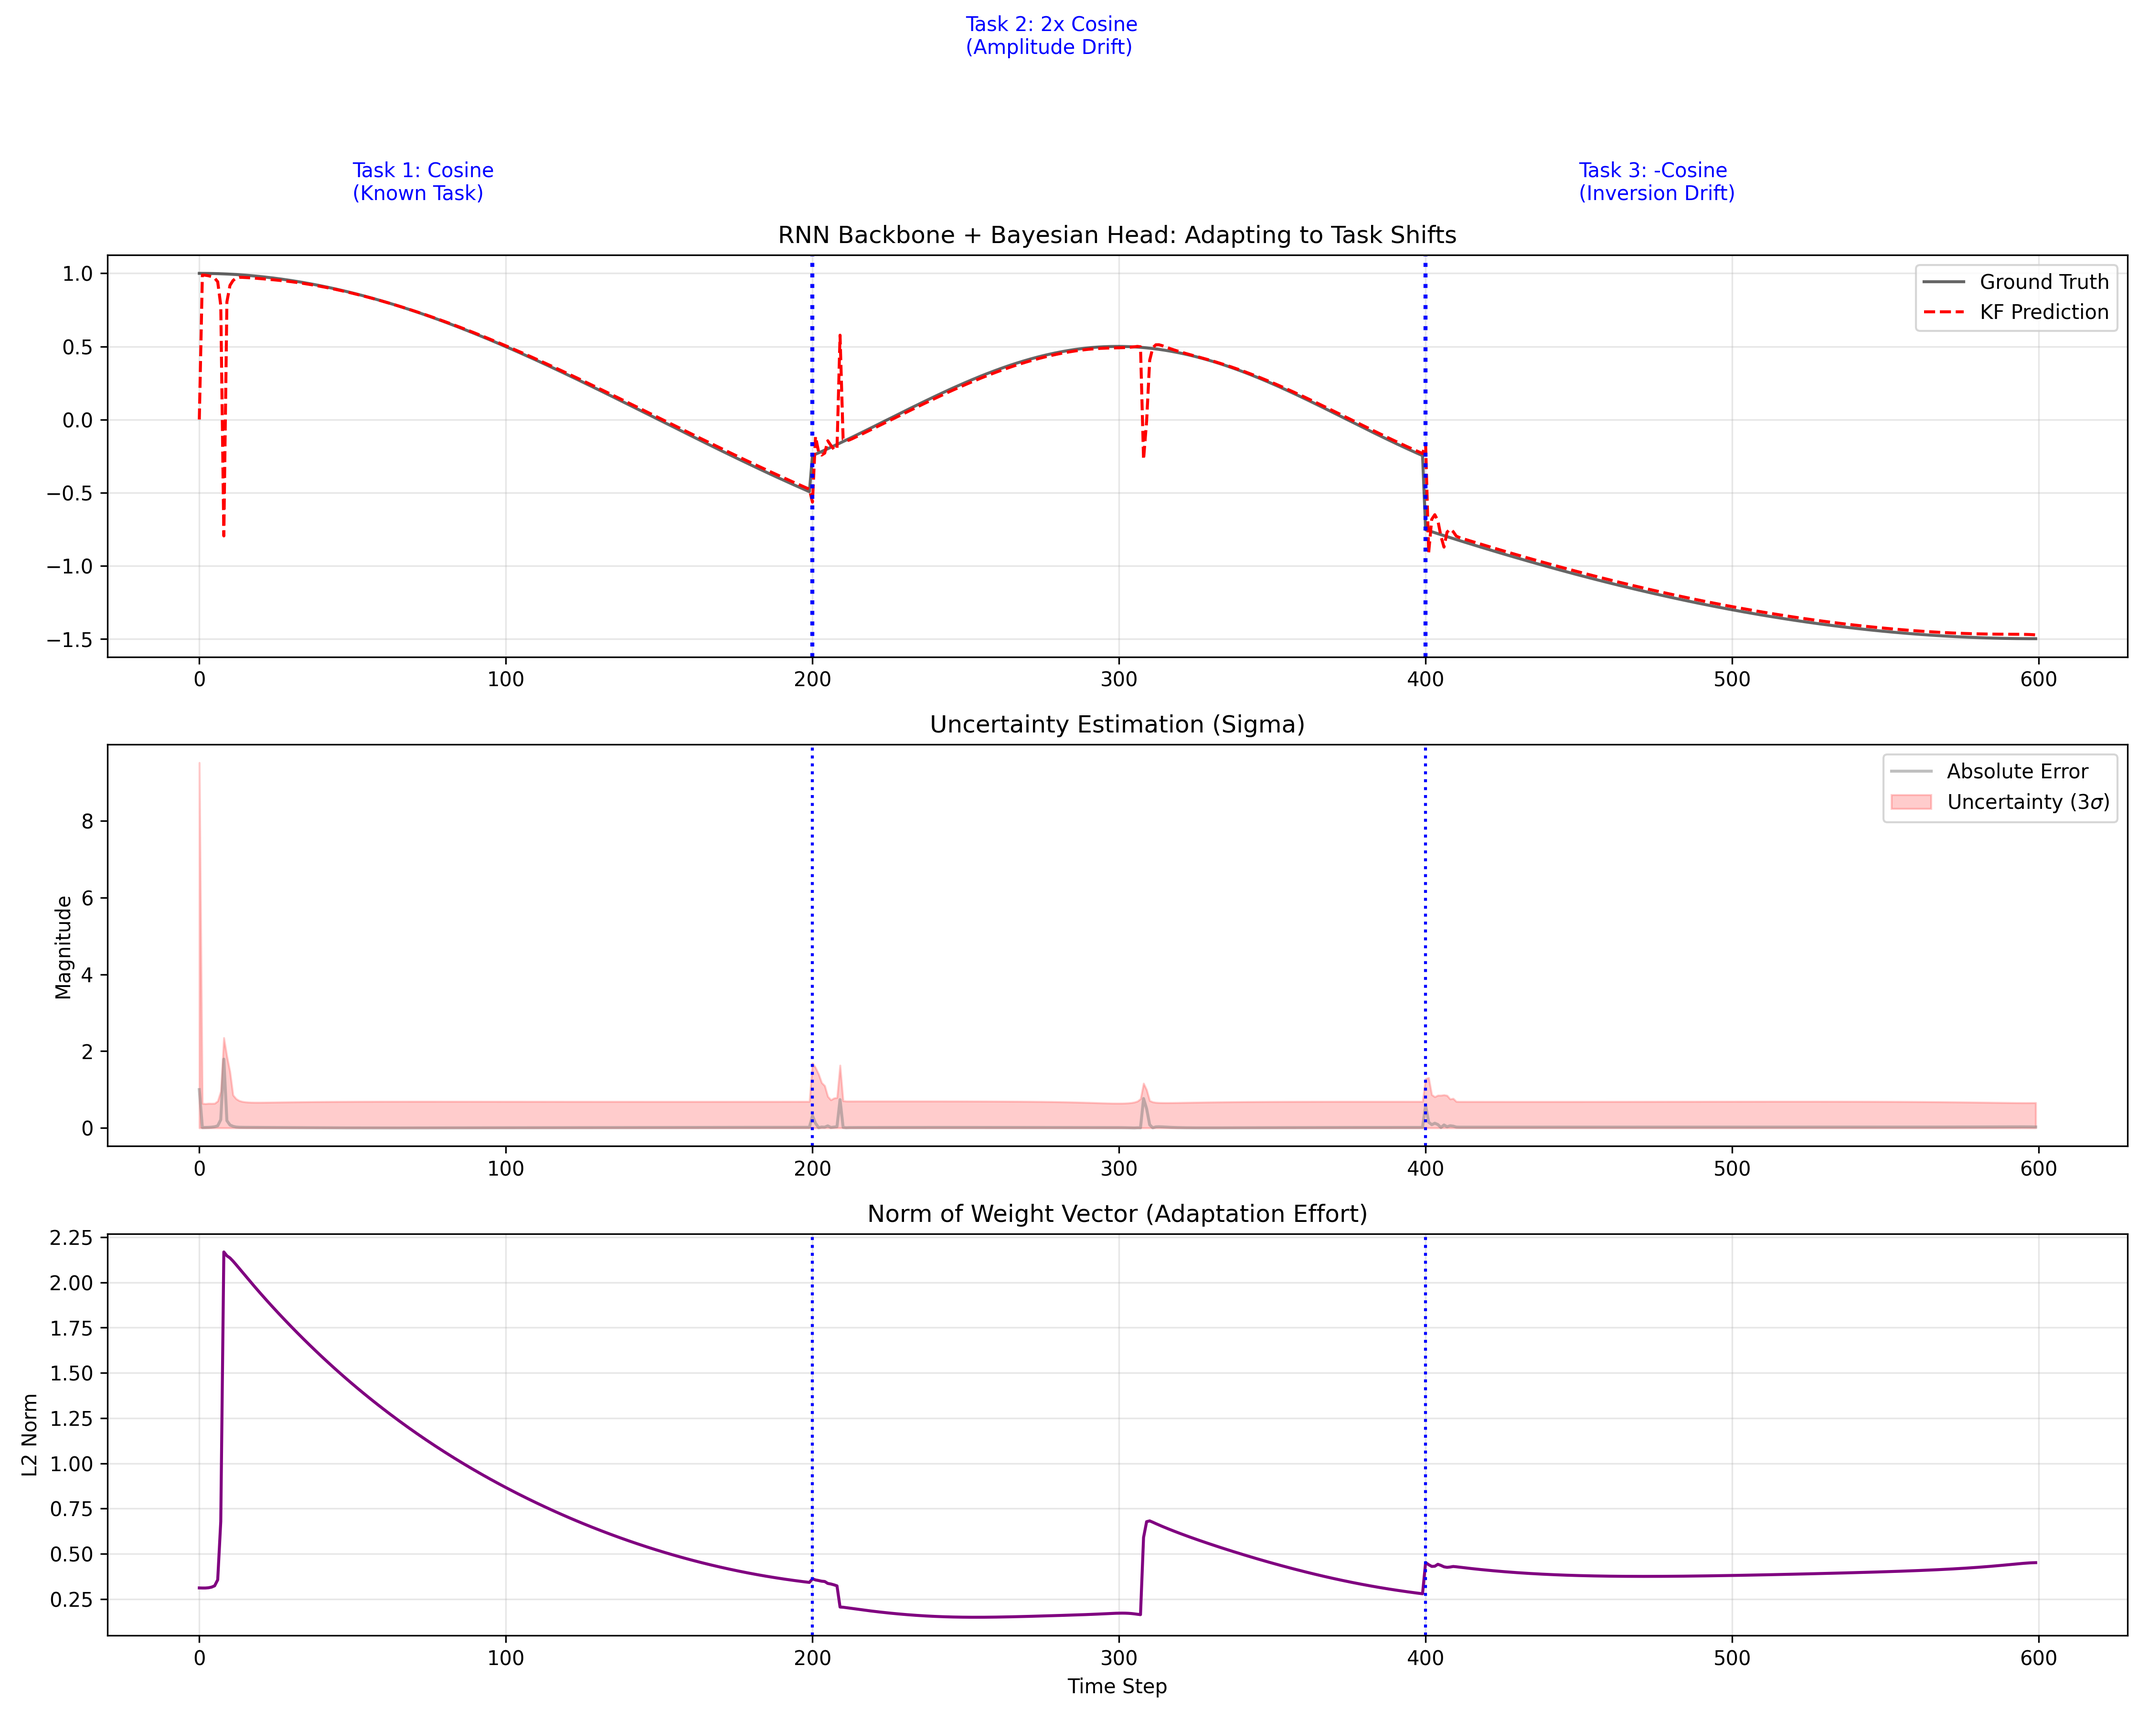
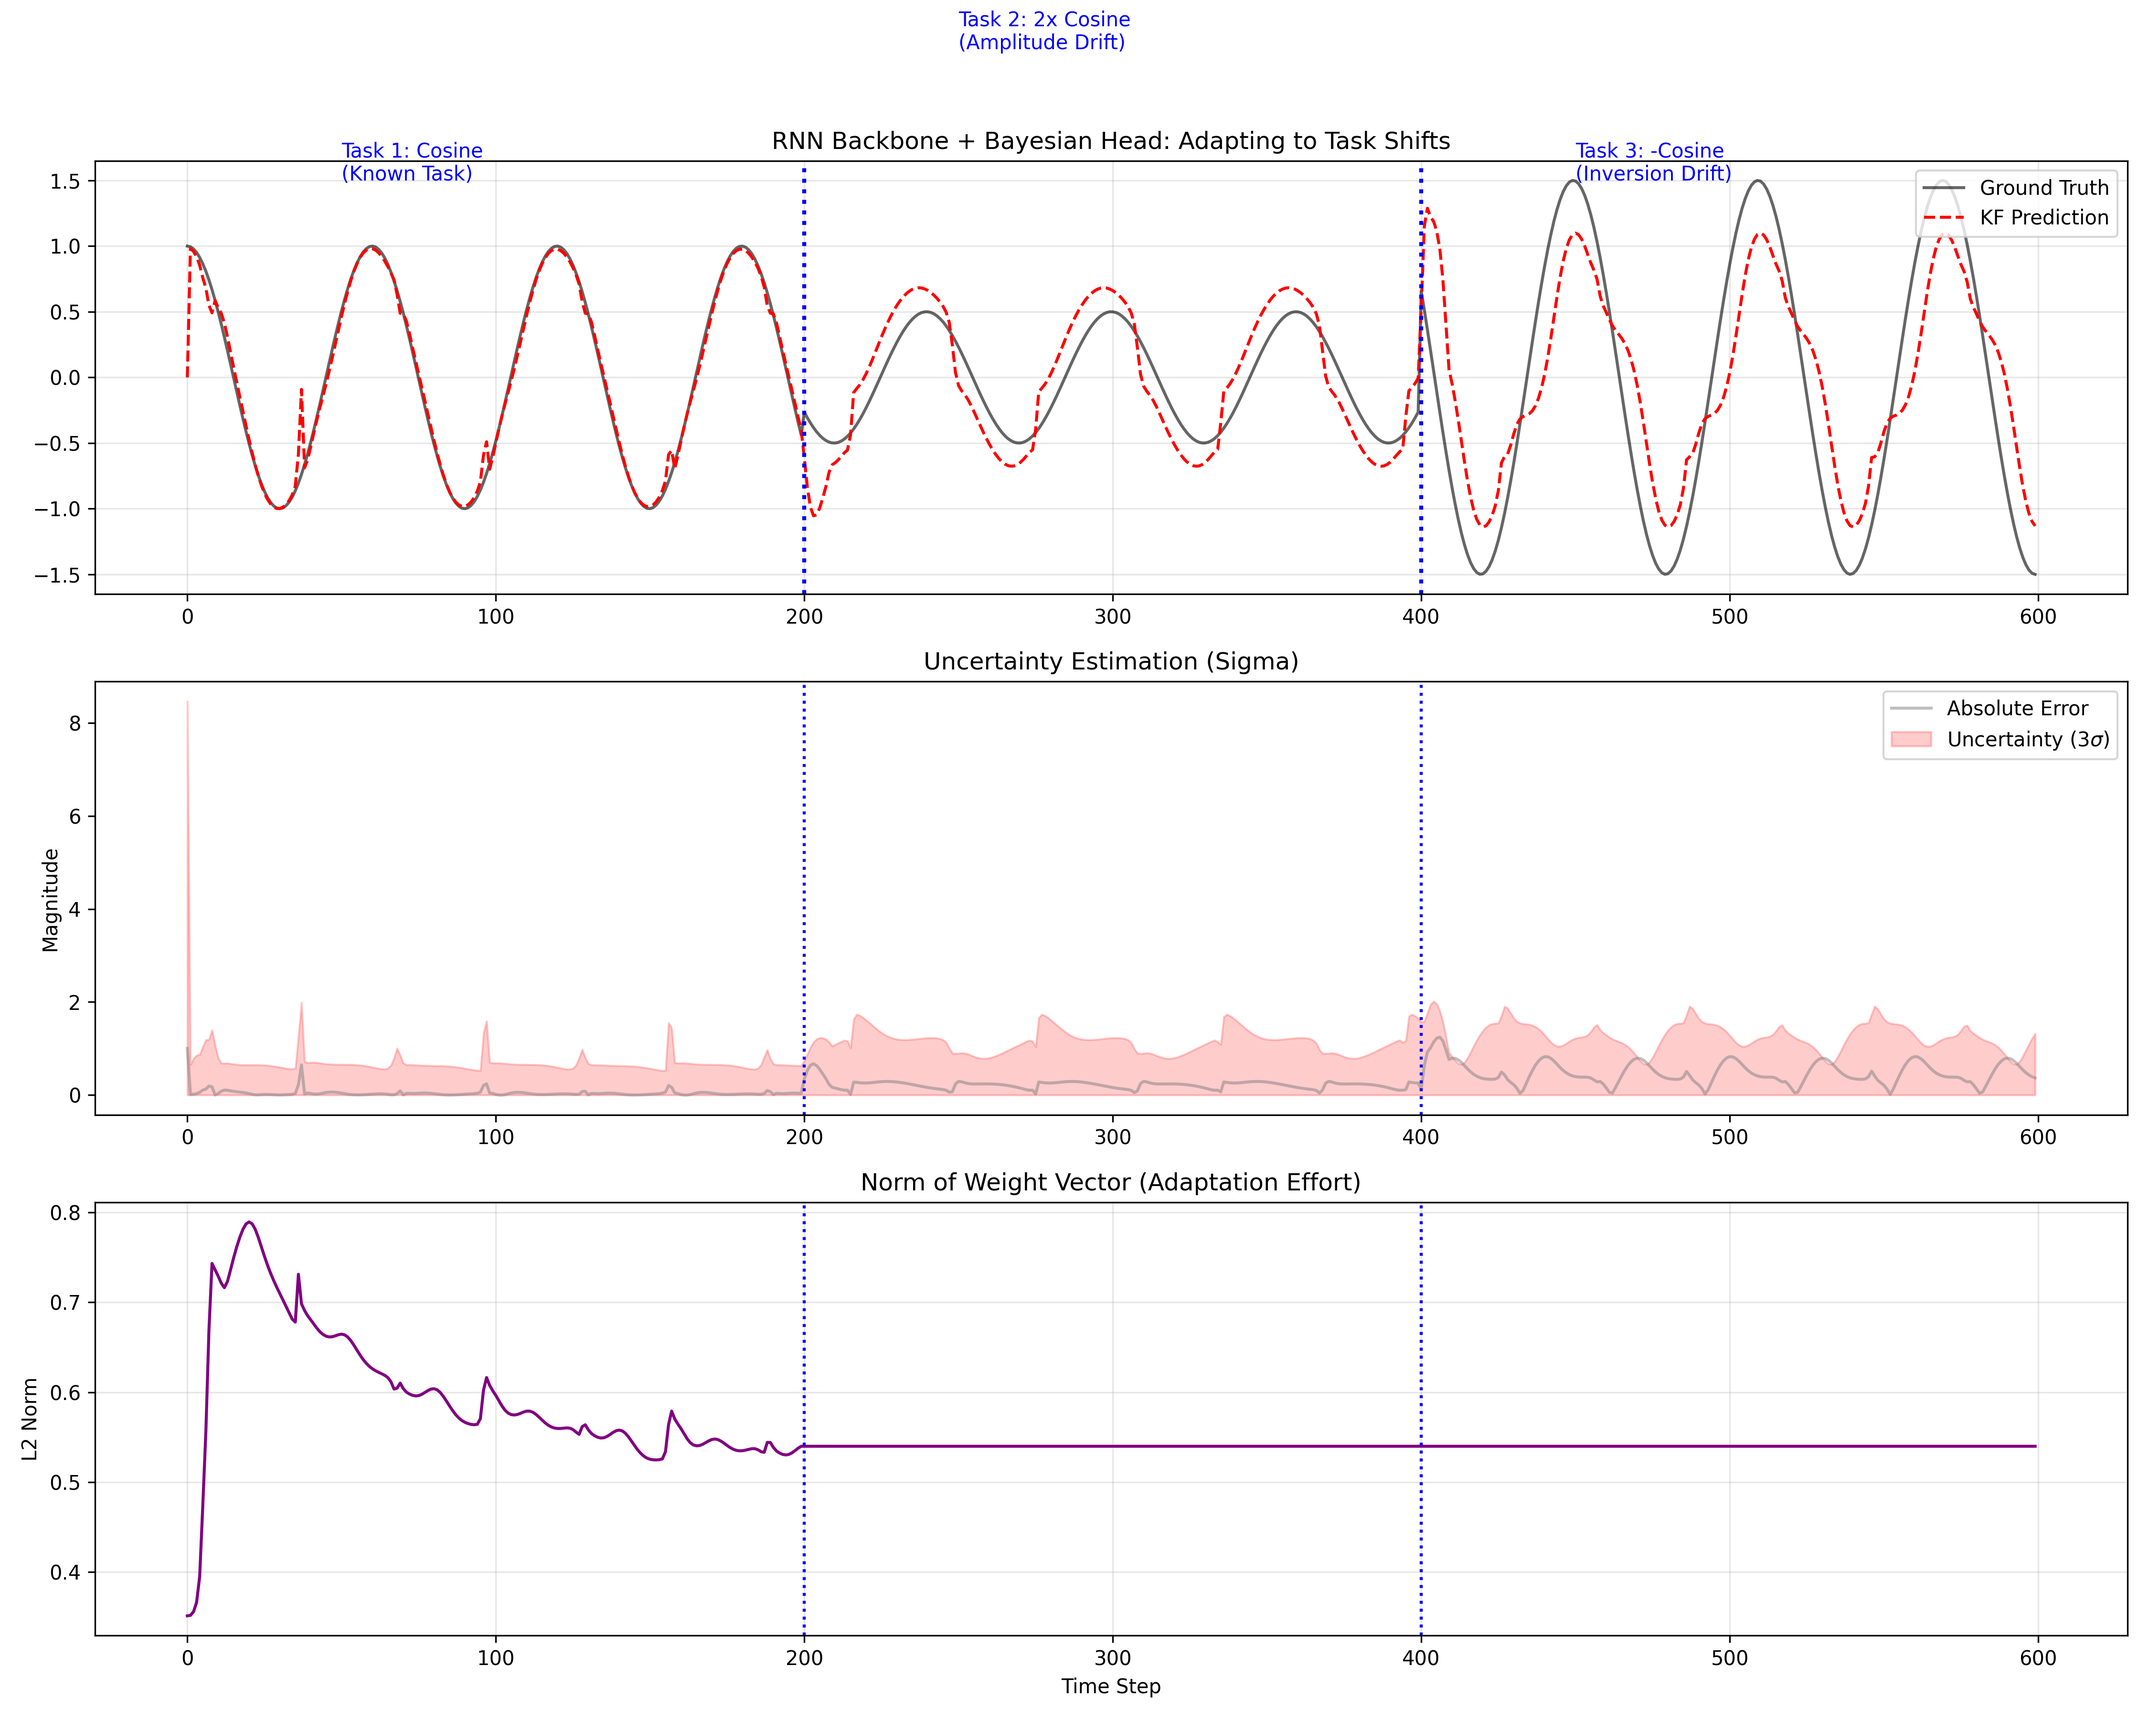
Correctly translate the sine cosine experiment from last week

diff --git a/scripts/kurt/Sine_LRU.py b/scripts/kurt/Sine_LRU.py
@@ -12,9 +12,9 @@ from latinx.data.sine_cosine import SineCosineTranslator
 
 # Task configuration: cleaner and more maintainable
 TASK_CONFIGS: dict[int, dict[str, float]] = {
-    0: {"amplitude": 1.0, "angle_multiplier": 2 * np.pi},
-    1: {"amplitude": 0.5, "angle_multiplier": 4 * np.pi},
-    2: {"amplitude": 1.5, "angle_multiplier": 1 * np.pi},
+    0: {"amplitude": 1.0, "angle_multiplier": 10},
+    1: {"amplitude": 0.5, "angle_multiplier": 10},
+    2: {"amplitude": -1.5, "angle_multiplier": 10},
 }
 
 
@@ -56,38 +56,24 @@ class SimpleRNN(nn.Module):
         super().__init__()
         self.input_size = input_size
         self.hidden_size = hidden_size
-
-        # A standard RNN layer
         self.rnn = nn.RNN(input_size, hidden_size, batch_first=True, nonlinearity="tanh")
-        # A temporary linear head used only for pre-training
-        self.temp_head = nn.Linear(hidden_size, 1)
 
     def forward(
         self, x: torch.Tensor, h: torch.Tensor | None = None
-    ) -> tuple[torch.Tensor, torch.Tensor, torch.Tensor]:
+    ) -> tuple[torch.Tensor, torch.Tensor]:
         """
-        Forward pass through the RNN.
+        Forward pass returning backbone features only (no prediction head).
 
         Args:
-            x: Input tensor of shape (batch, seq_len, input_size)
-            h: Optional initial hidden state of shape (1, batch, hidden_size)
+            x: (batch, seq_len, input_size)
+            h: Optional initial hidden state (1, batch, hidden_size)
 
         Returns:
-            Tuple of (pred, last_step_features, h_n) where:
-                pred: Predictions of shape (batch, 1)
-                last_step_features: Features from last timestep (batch, hidden_size)
-                h_n: Final hidden state (1, batch, hidden_size)
+            Tuple (last_step_features, h_n)
         """
-        # x shape: (batch, seq_len, input_size)
         out, h_n = self.rnn(x, h)
-
-        # We extract features from the last time step of the sequence
         last_step_features = out[:, -1, :]
-
-        # Prediction (used during pre-training only)
-        pred = self.temp_head(last_step_features)
-
-        return pred, last_step_features, h_n
+        return last_step_features, h_n
 
 
 class KalmanFilterHead:
@@ -207,7 +193,9 @@ if __name__ == "__main__":
     SEQ_LEN = 10
     HIDDEN_SIZE = 32
     rnn_model = SimpleRNN(input_size=1, hidden_size=HIDDEN_SIZE)
-    optimizer = optim.Adam(rnn_model.parameters(), lr=0.01)
+    pretrain_head = nn.Linear(HIDDEN_SIZE, 1)  # external head only used here
+    params = list(rnn_model.parameters()) + list(pretrain_head.parameters())
+    optimizer = optim.Adam(params, lr=0.01)
     criterion = nn.MSELoss()
 
     # Train Loop (Offline)
@@ -232,7 +220,8 @@ if __name__ == "__main__":
 
         # Standard PyTorch training step
         optimizer.zero_grad()
-        preds, _, _ = rnn_model(inputs)
+        features, _ = rnn_model(inputs)
+        preds = pretrain_head(features)
         loss = criterion(preds, targets)
         loss.backward()
         optimizer.step()
@@ -244,6 +233,8 @@ if __name__ == "__main__":
     # Freeze the backbone!
     for param in rnn_model.parameters():
         param.requires_grad = False
+    # Discard the pretrain head explicitly
+    del pretrain_head
 
     # ==========================================
     # 5. PHASE 2: ONLINE ADAPTATION
@@ -287,14 +278,27 @@ if __name__ == "__main__":
         # --- Forward Pass ---
         # 1. Backbone: Get Features from Frozen RNN
         input_tensor = torch.tensor(np.array(input_buffer), dtype=torch.float32).view(1, SEQ_LEN, 1)
-        _, features_tensor, _ = rnn_model(input_tensor)
+        features_tensor, _ = rnn_model(input_tensor)
 
         # Convert to numpy for the Kalman Filter
         phi = features_tensor.detach().numpy().T  # Shape (M, 1)
 
-        # 2. Head: Bayesian Prediction & Update
+        # 2. Head: Bayesian Prediction & (conditional) Update
+        # Train (update) ONLY during Task 0; Tasks 1 & 2 are prediction-only.
         pred_val = kf.predict(phi)
-        uncertainty_S, _ = kf.update(y_t, pred_val)
+        if curr_task == 0:
+            # Update parameters (training phase)
+            uncertainty_S, error = kf.update(y_t, pred_val)
+        else:
+            # Prediction only (no parameter update). Use predicted covariance (P_minus) for uncertainty.
+            # Ensure predict() populated H and P_minus.
+            if kf.H is not None and kf.P_minus is not None:
+                S_mat = kf.H @ kf.P_minus @ kf.H.T + kf.R  # shape (1,1)
+                uncertainty_S = float(S_mat.item())
+            else:
+                # Fallback if internal state not set (should not happen if predict() succeeded)
+                uncertainty_S = float(np.nan)
+            error = y_t - pred_val
 
         # --- Store Results ---
         history["y_true"].append(y_t)

diff --git a/tests/test_data.py b/tests/test_data.py
@@ -12,5 +12,5 @@ def test_generate_sine_cosine_data():
 
     assert len(data) == 10
     assert ["t", "sine", "cosine"] == list(data.columns)
-    assert np.isclose(np.max(data["sine"]), 1.969615506024414, atol=1e-5)
-    assert np.isclose(np.min(data["cosine"]), -2.0, atol=1e-5)
+    assert np.isclose(np.max(data["sine"]), 1.6249060130820974, atol=1e-5)
+    assert np.isclose(np.min(data["cosine"]), -1.8751223859445167, atol=1e-5)

diff --git a/latinx/data/sine_cosine/sine_cosine_translator.py b/latinx/data/sine_cosine/sine_cosine_translator.py
@@ -40,7 +40,7 @@ class SineCosineTranslator:
         if self.seed is not None:
             np.random.seed(self.seed)
 
-        t_values = np.linspace(0, 1, self.num_samples)
+        t_values = np.linspace(0, 2 * np.pi, self.num_samples)
         sine_values = self.sine_function(t_values)
         cosine_values = self.cosine_function(t_values)
 
